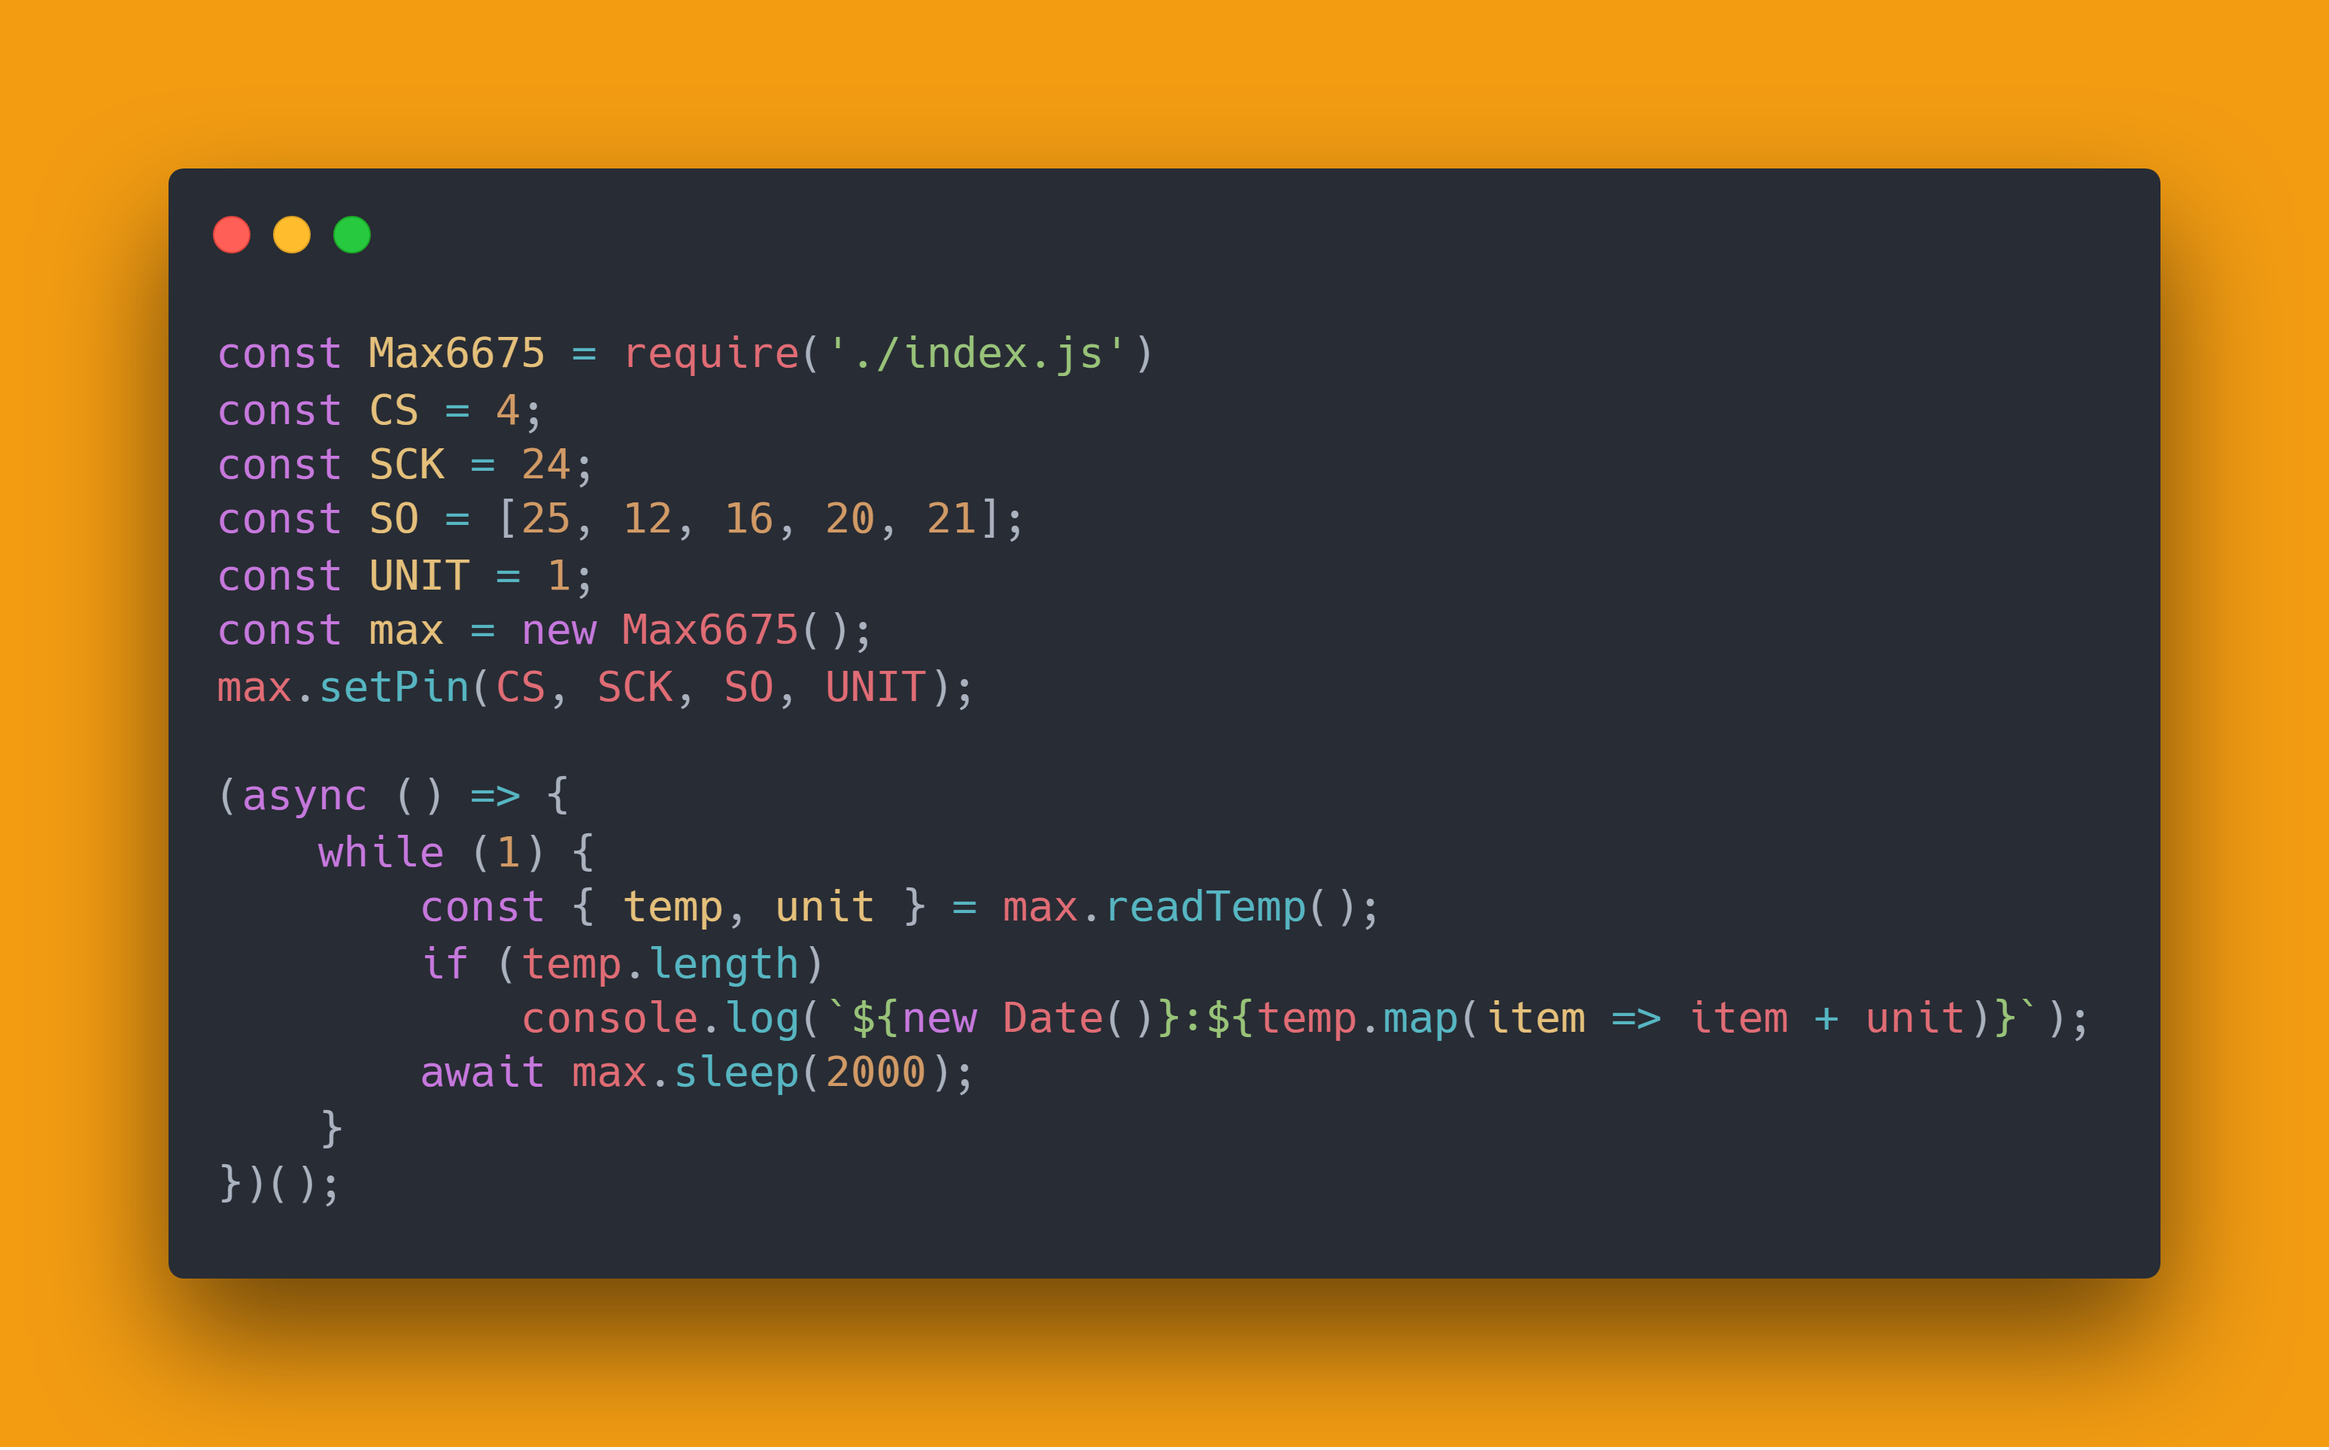
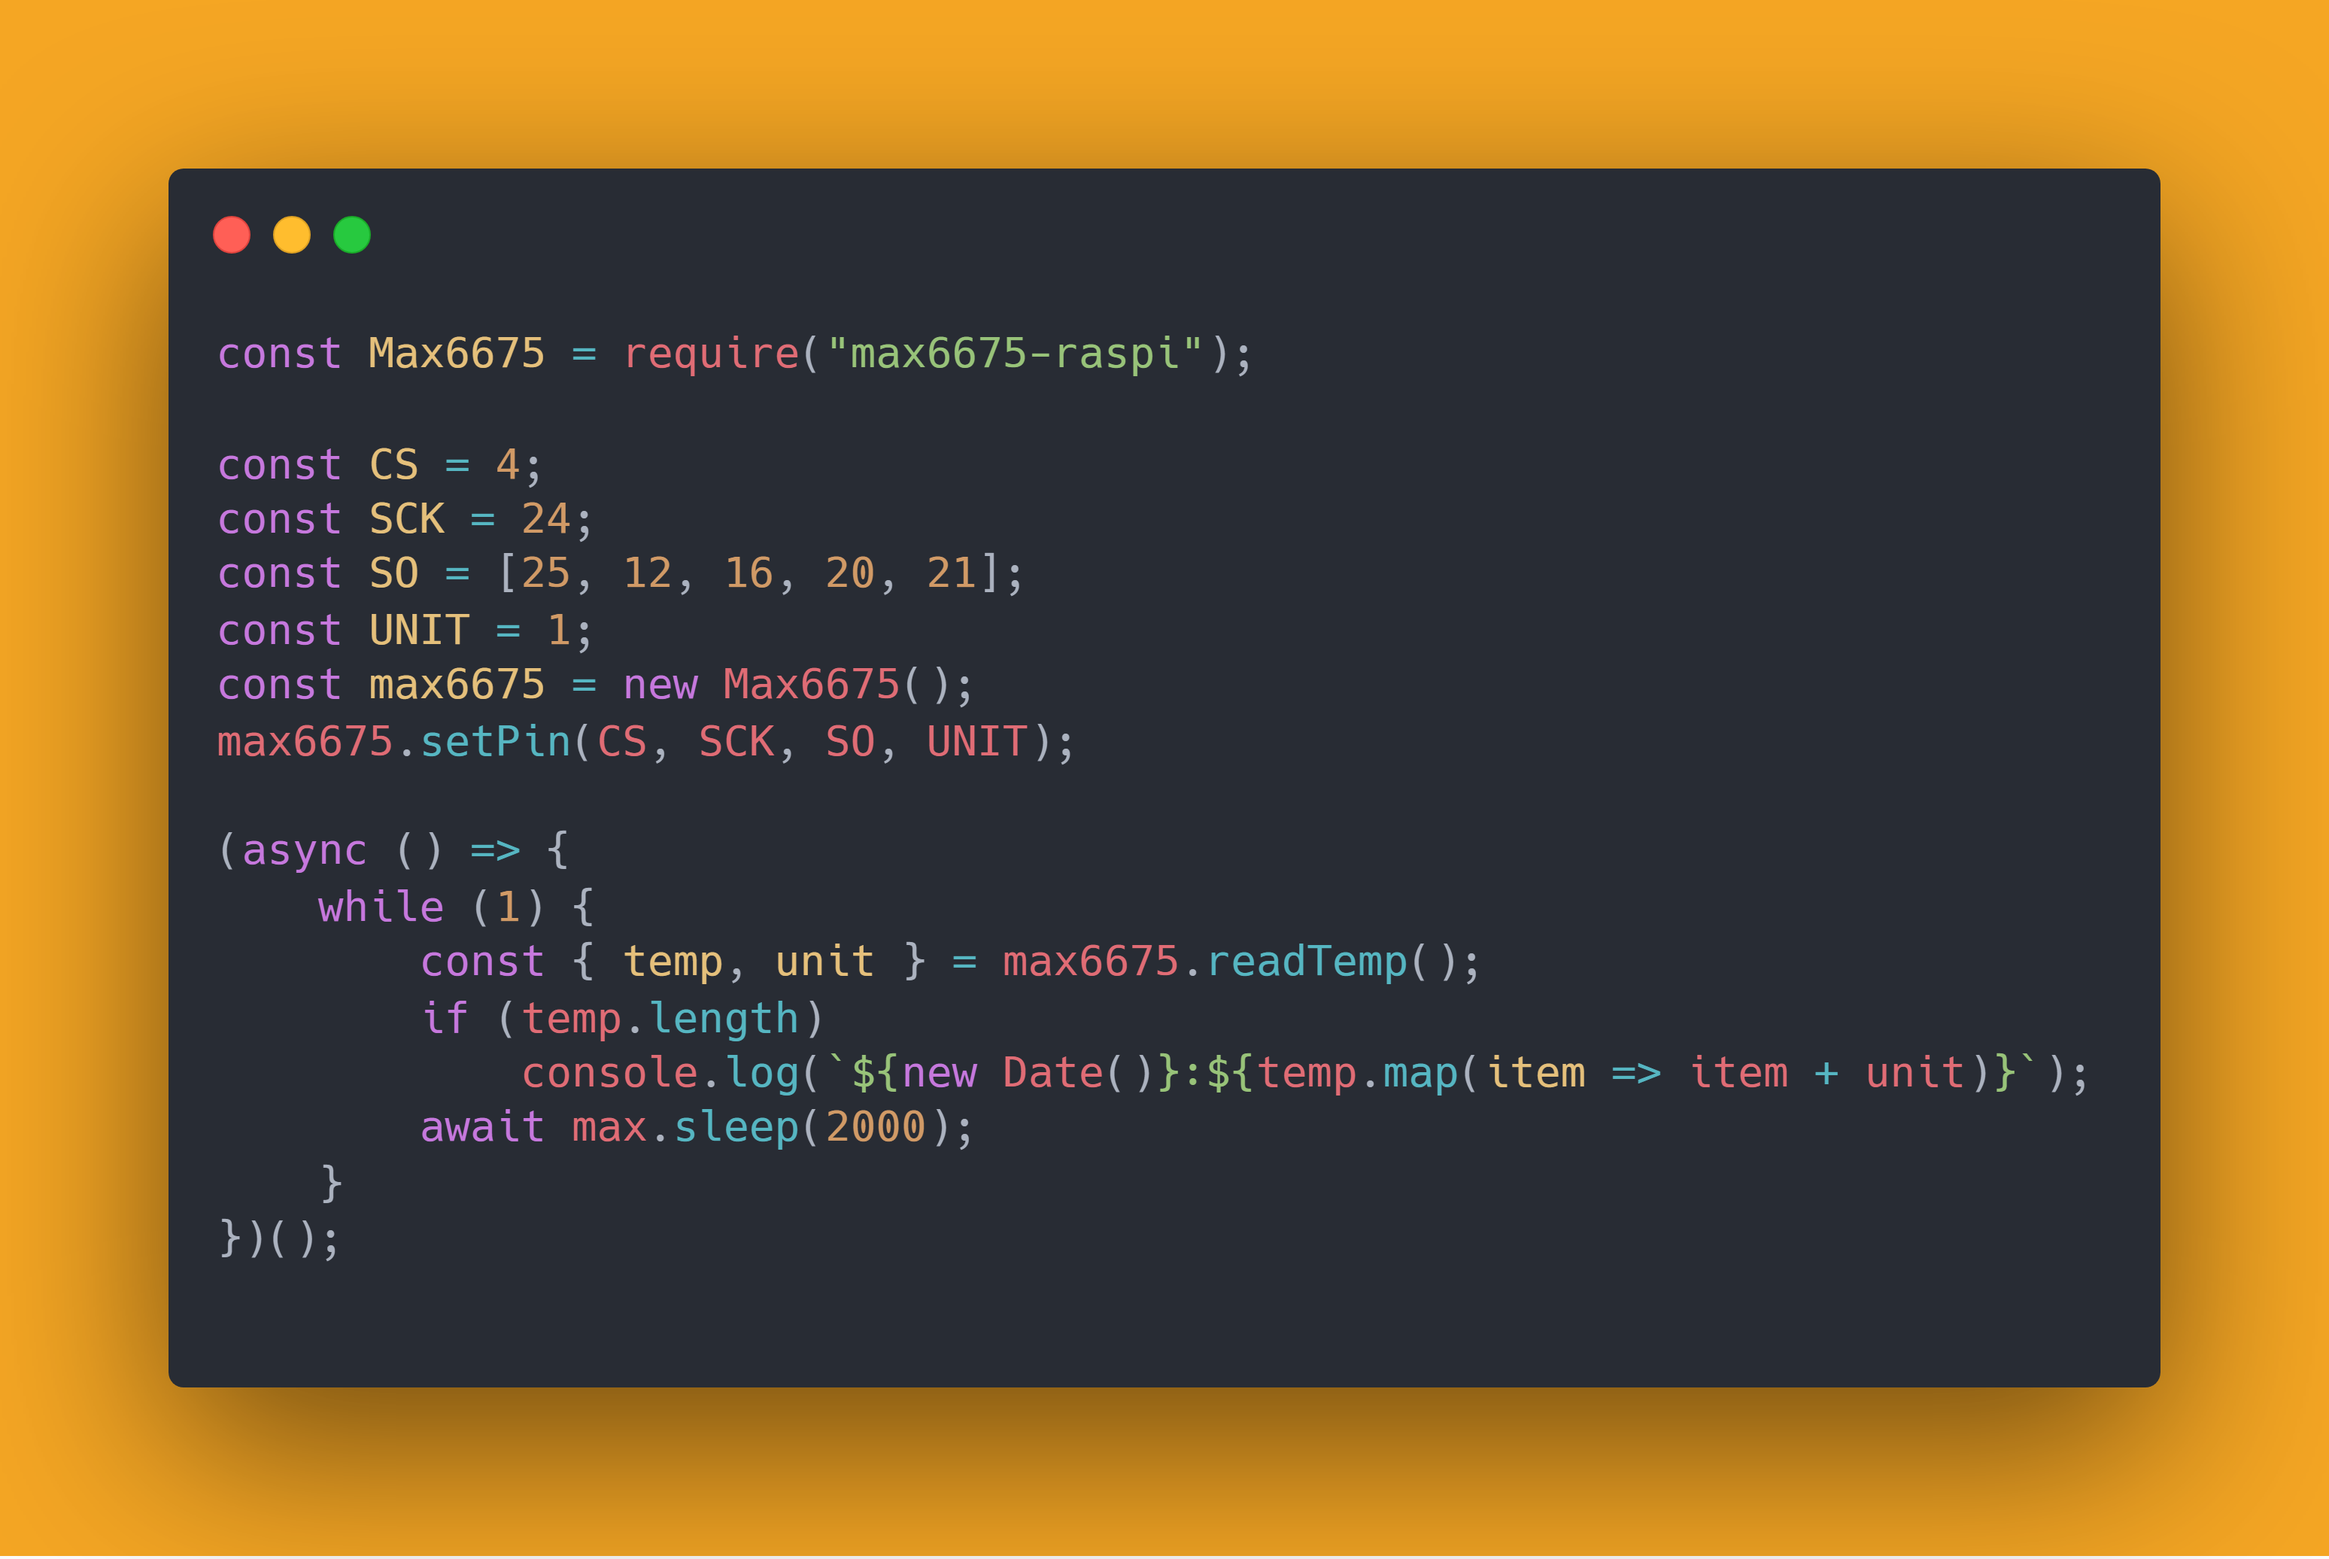
update png and some code

diff --git a/index.js b/index.js
@@ -10,7 +10,7 @@ module.exports = class Max6675 {
 	 * @author bubao
 	 * @param {number} cs Chip select
 	 * @param {number} sck CMOS clock
-	 * @param {number} so Serial data output
+	 * @param {number | array} so Serial data output
 	 * @param {number} [unit=1]
 	 */
 	constructor(cs, sck, so, unit = 1) {
@@ -63,22 +63,23 @@ module.exports = class Max6675 {
 		return arr;
 	}
 	/**
-	 * @description setPin
+	 * @description
 	 * @author bubao
 	 * @param {number} cs Chip select
 	 * @param {number} sck CMOS clock
-	 * @param {number} so Serial data output
+	 * @param {number | array} so Serial data output
 	 * @param {number} [unit=1]
+	 * @returns this
 	 */
-	setPin(cs, sck, so, unit) {
-		this.cs = cs || this.cs;
-		this.sck = sck || this.sck;
+	setPin(cs = this.cs, sck = this.sck, so, unit = this.unit) {
+		this.cs = cs;
+		this.sck = sck;
+		this.unit = unit;
 		this.so = this[isArray](so)
 			? so
 			: typeof so === "number"
 			? [so]
 			: this.so;
-		this.unit = unit || this.unit;
 		if (this.so.length === 0) {
 			console.error("You must assign a value to so!");
 			this.stop();
@@ -86,6 +87,7 @@ module.exports = class Max6675 {
 			this.cs = new Gpio(this.cs, "low");
 			this.sck = new Gpio(this.sck, "low");
 			this.so = this.so.map(item => new Gpio(item, "in"));
+			return this;
 		}
 	}
 	/**

diff --git a/test/test.js b/test/test.js
@@ -4,12 +4,12 @@ const CS = 4;
 const SCK = 24;
 const SO = [25, 12, 16, 20, 21];
 const UNIT = 1;
-const max = new Max6675();
-max.setPin(CS, SCK, SO, UNIT);
+const max6675 = new Max6675();
+max6675.setPin(CS, SCK, SO, UNIT);
 
 (async () => {
 	while (1) {
-		const { temp, unit } = max.readTemp();
+		const { temp, unit } = max6675.readTemp();
 		if (temp.length)
 			console.log(`${new Date()}:${temp.map(item => item + unit)}`);
 		await max.sleep(2000);
